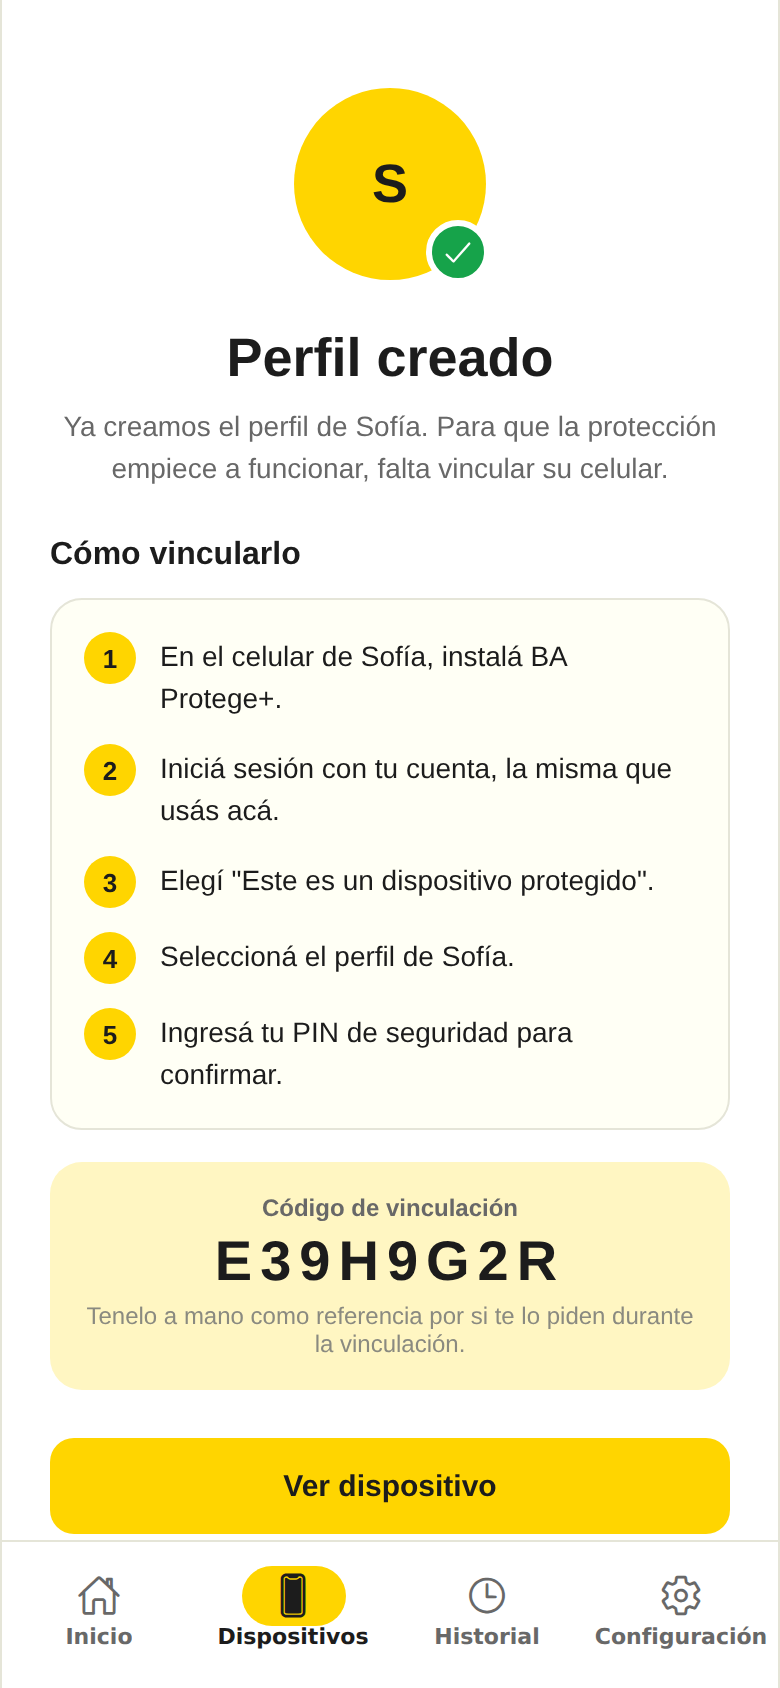
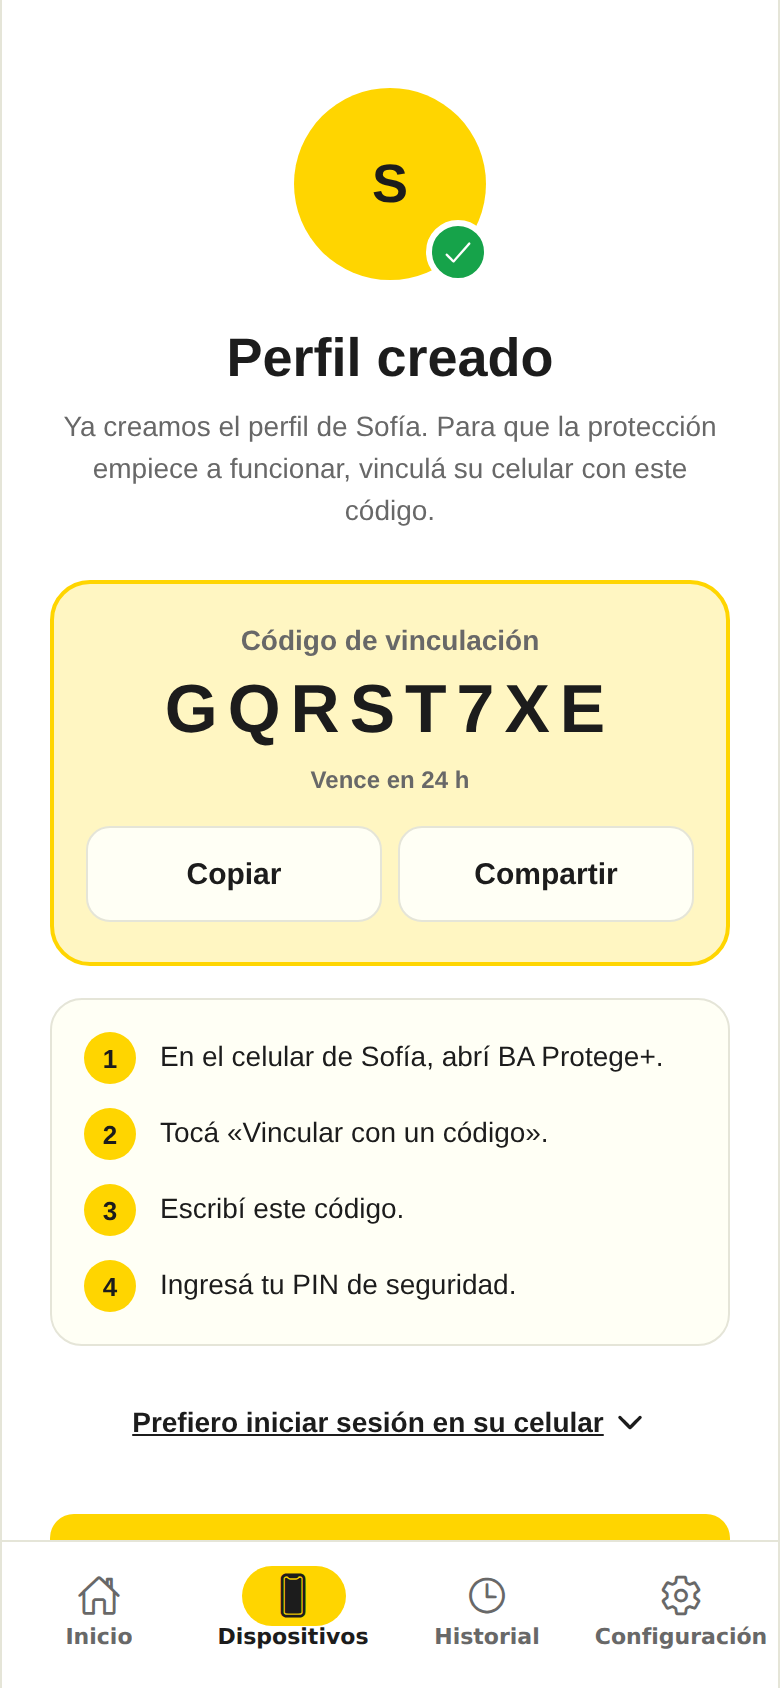
docs: README con la integración de las ramas, capturas nuevas y prueba de Android por código
- README: los dos caminos de vinculación (código y sesión del adulto), el
  catálogo de eventos del Hito 3, la API del celular, la seguridad de la
  vinculación y qué se tomó de cada rama del equipo y por qué.
- Capturas 24 a 30 (vincular con código, sugerir un sitio) y de Android
  (vincular con código, VPN activa, pausar con PIN).
- docs/e2e/android_codigo_e2e.py: vincula el APK con código y PIN, activa
  la VPN, comprueba que bplay.bet.ar no resuelve y google.com sí, y que
  pausar abre el pedido de PIN sin desactivar la protección.

diff --git a/docs/e2e/android_codigo_e2e.py b/docs/e2e/android_codigo_e2e.py
@@ -1,0 +1,165 @@
+"""Prueba del APK en el emulador con la vinculación por código (sin la cuenta del adulto).
+
+El adulto crea el perfil por API y recibe el código; en el celular se toca
+«Vincular con un código», se escribe el código y el PIN, se activa la VPN y se
+verifica el bloqueo por DNS. Reutiliza los helpers de android_e2e.py.
+Requiere el emulador ya iniciado.
+"""
+import os
+import re
+import sys
+import time
+
+sys.argv = sys.argv[:1]
+HERE = os.path.dirname(os.path.abspath(__file__))
+sys.path.insert(0, HERE)
+
+# Importar android_e2e ejecutaría su recorrido: se cargan solo las definiciones.
+source = open(os.path.join(HERE, "android_e2e.py"), encoding="utf-8").read()
+helpers = source.split("\nrun(", 1)[0]
+exec(compile(helpers, "android_e2e_helpers", "exec"))  # noqa: S102
+
+PREFIX = "c"
+state = {}
+
+
+def shot_c(name):
+    shot(f"{PREFIX}-{name}")  # noqa: F821
+
+
+def prepare():
+    reg = api("/api/auth/register", {"name": "Laura Gómez", "email": email, "password": password})  # noqa: F821
+    token = reg["token"]
+    api("/api/auth/pin", {"pin": pin}, token, method="PATCH")  # noqa: F821
+    created = api("/api/devices/link", {"deviceName": "Sofía", "fechaNacimiento": "2013-08-12"}, token)  # noqa: F821
+    state["code"] = created["linkCode"]
+    state["token"] = token
+    print(f"  código: {state['code']}")
+
+
+def dismiss_anr():
+    """En el emulador por software, Android a veces avisa que la interfaz no responde."""
+    hit = find(r"^(Wait|Esperar)$")  # noqa: F821
+    if hit:
+        adb("shell", "input", "tap", str(hit[0]), str(hit[1]))  # noqa: F821
+        time.sleep(2)
+    return hit
+
+
+def open_app():
+    adb("install", "-r", APK, timeout=300)  # noqa: F821
+    adb("shell", "pm", "clear", PKG, check=False)  # noqa: F821
+    end = time.time() + 180
+    while time.time() < end:
+        dismiss_anr()
+        adb("shell", "monkey", "-p", PKG, "-c", "android.intent.category.LAUNCHER", "1", check=False)  # noqa: F821
+        try:
+            wait_for(r"Comenzar|Bienvenid|Vincular con un código", 30)  # noqa: F821
+            break
+        except TimeoutError:
+            continue
+    dismiss_anr()
+    wait_for(r"Comenzar|Bienvenid|Vincular con un código", 30)  # noqa: F821
+    shot_c("bienvenida")
+
+
+PROTECTED_HOME = r"^Protección en este celular$|^Este celular está protegido$|^Protección pausada"
+
+
+def text_fields():
+    """Centros de los EditText en pantalla, de arriba hacia abajo."""
+    fields = []
+    for node in screen().iter("node"):  # noqa: F821
+        if "EditText" in (node.get("class") or ""):
+            x1, y1, x2, y2 = map(int, re.findall(r"\d+", node.get("bounds")))
+            fields.append(((x1 + x2) // 2, (y1 + y2) // 2))
+    return sorted(fields, key=lambda p: p[1])
+
+
+def link_with_code():
+    tap(r"Vincular con un código")  # noqa: F821
+    wait_for(r"Vinculá este celular", 60)  # noqa: F821
+    fields = text_fields()
+    assert fields, "no encontré el campo del código"
+    adb("shell", "input", "tap", str(fields[0][0]), str(fields[0][1]))  # noqa: F821
+    type_text(state["code"])  # noqa: F821
+    # El PinInput es un TextInput transparente (fuera del árbol de accesibilidad)
+    # encima de las cajas: se toca la zona de las cajas, debajo de su etiqueta.
+    label = None
+    for node in screen().iter("node"):  # noqa: F821
+        if re.search(r"PIN de seguridad", node.get("text") or "", re.I):
+            label = list(map(int, re.findall(r"\d+", node.get("bounds"))))
+    assert label, "no encontré la etiqueta del PIN"
+    adb("shell", "input", "tap", "540", str(label[3] + 110))  # noqa: F821
+    time.sleep(0.8)
+    type_text(pin)  # noqa: F821
+    adb("shell", "input", "keyevent", "4")  # noqa: F821
+    time.sleep(1)
+    shot_c("vincular-con-codigo")
+    tap(r"^Vincular$")  # noqa: F821
+    wait_for(PROTECTED_HOME, 60)  # noqa: F821
+    time.sleep(1.5)
+    shot_c("protegido-recien-vinculado")
+
+
+def vpn_on():
+    switch = None
+    for node in screen().iter("node"):  # noqa: F821
+        if "Switch" in (node.get("class") or "") or node.get("checkable") == "true":
+            x1, y1, x2, y2 = map(int, re.findall(r"\d+", node.get("bounds")))
+            switch = ((x1 + x2) // 2, (y1 + y2) // 2)
+    assert switch, "no encontré el interruptor de la VPN"
+    adb("shell", "input", "tap", str(switch[0]), str(switch[1]))  # noqa: F821
+    time.sleep(1.5)
+    for _ in range(15):
+        consent = find(r"^(OK|Aceptar|Allow|Permitir)$")  # noqa: F821
+        if consent:
+            adb("shell", "input", "tap", str(consent[0]), str(consent[1]))  # noqa: F821
+            break
+        time.sleep(1)
+    wait_for(r"Este celular está protegido", 30)  # noqa: F821
+    time.sleep(2.5)
+    shot_c("protegido-vpn-activa")
+    blocked = not resolves("bplay.bet.ar")  # noqa: F821
+    allowed = resolves("google.com")  # noqa: F821
+    print(f"  bplay.bet.ar bloqueado: {blocked} · google.com resuelve: {allowed}")
+    assert blocked and allowed, "la VPN no filtra como se espera"
+
+
+def visible_texts():
+    return {n.get("text") for n in screen().iter("node") if n.get("text")}  # noqa: F821
+
+
+def pause_needs_pin():
+    """Apagar el interruptor tiene que abrir un pedido de PIN, no pausar directamente."""
+    before = visible_texts()
+    switch = None
+    for node in screen().iter("node"):  # noqa: F821
+        if "Switch" in (node.get("class") or "") or node.get("checkable") == "true":
+            x1, y1, x2, y2 = map(int, re.findall(r"\d+", node.get("bounds")))
+            switch = ((x1 + x2) // 2, (y1 + y2) // 2)
+    assert switch, "no encontré el interruptor"
+    adb("shell", "input", "tap", str(switch[0]), str(switch[1]))  # noqa: F821
+    new = set()
+    for _ in range(12):
+        time.sleep(1)
+        new = visible_texts() - before
+        if any(re.search(r"PIN|Cancelar|Confirmar|Pausar", t, re.I) for t in new):
+            break
+    assert any(re.search(r"PIN", t, re.I) for t in new), f"no apareció un pedido de PIN; textos nuevos: {sorted(new)}"
+    print(f"  diálogo: {sorted(new)[:6]}")
+    shot_c("pausar-con-pin")
+    hit = find(r"^Cancelar$|^Volver$")  # noqa: F821
+    if hit:
+        adb("shell", "input", "tap", str(hit[0]), str(hit[1]))  # noqa: F821
+        time.sleep(1.5)
+    assert not resolves("bplay.bet.ar"), "sin el PIN la protección no debería pausarse"  # noqa: F821
+    print("  sin PIN la protección sigue activa")
+
+
+run("perfil y código por API", prepare)  # noqa: F821
+run("instalar y abrir el APK", open_app)  # noqa: F821
+run("vincular con el código y el PIN", link_with_code)  # noqa: F821
+run("activar la VPN y bloquear por DNS", vpn_on)  # noqa: F821
+run("pausar pide el PIN del adulto", pause_needs_pin)  # noqa: F821
+print("OK: vinculación por código verificada en el emulador")

diff --git a/README.md b/README.md
@@ -15,32 +15,36 @@ Aplicación para que madres, padres y personas adultas a cargo **bloqueen los si
 La misma app tiene dos modos. Cada celular elige el suyo la primera vez que se usa:
 
 - **Modo adulto responsable.** En tu celular o en la web app creás tu cuenta (con correo y contraseña o con **Continuar con Google**) y un PIN de 4 dígitos, cargás el perfil de cada hijo o hija y recibís las alertas y el historial.
-- **Modo dispositivo protegido.** En el celular del menor iniciás sesión con **tu** cuenta, elegís su perfil y confirmás con tu PIN. A partir de ahí, una VPN local de Android filtra por DNS los dominios del listado. La navegación no pasa por ningún servidor nuestro.
+- **Modo dispositivo protegido.** Se vincula el celular del menor de una de dos formas:
+  - **Con un código (recomendado).** Al cargar el perfil, la app le muestra al adulto un código de 8 caracteres que vence en 24 horas. En el celular del menor se toca **«Vincular con un código»**, se escribe el código y el PIN del adulto, y listo. La cuenta del adulto no queda abierta en ese celular: el celular recibe una credencial propia, revocable, que solo sirve para su estado, la lista de bloqueo y sus eventos.
+  - **Iniciando sesión con la cuenta del adulto.** Se elige el perfil del menor y se confirma con el PIN.
+
+  A partir de ahí, una VPN local de Android filtra por DNS los dominios del listado. La navegación no pasa por ningún servidor nuestro. Para pausar la protección o desvincular el celular siempre hace falta el PIN del adulto.
 
 ```mermaid
 flowchart TD
-    A[Bienvenida y onboarding] --> B{¿Tiene cuenta?}
-    B -- No --> C[Crear cuenta]
-    B -- Sí --> D[Iniciar sesión]
-    C --> E[Selección de modo]
-    D --> E
-    E -- Adulto responsable --> F[Crear PIN de seguridad]
+    A[Bienvenida y onboarding] --> B{¿Qué celular es?}
+    B -- El del adulto --> C[Crear cuenta o iniciar sesión]
+    C --> F[Crear PIN de seguridad]
     F --> G[Inicio: dispositivos, alertas e historial]
-    G --> H[Agregar dispositivo: nombre y fecha de nacimiento]
-    H --> I[Perfil creado: pasos y código de vinculación]
-    E -- Dispositivo protegido --> J[Elegir el perfil del menor]
-    J --> K[Confirmar con el PIN del adulto]
-    K -- PIN incorrecto --> K
-    K -- PIN correcto --> L[Celular protegido: VPN local activa]
+    G --> H[Agregar perfil: nombre y fecha de nacimiento]
+    H --> I[Código de vinculación: copiar o compartir]
+    B -- El del menor --> V[Vincular con un código]
+    I -. el adulto le pasa el código .-> V
+    V --> K[Código + PIN del adulto]
+    K -- incorrecto: 5 intentos como máximo --> K
+    K -- correcto --> L[Celular protegido: VPN local activa]
+    C -. alternativa: modo dispositivo protegido .-> J[Elegir perfil y confirmar con el PIN]
+    J --> L
     L -- Intento de entrar a un sitio del listado --> M[Pantalla de sitio bloqueado]
-    M -. evento ACCESS_ATTEMPT .-> N[(API)]
+    M -. evento SITE_BLOCKED .-> N[(API)]
     L -. PIN incorrecto al salir: BYPASS_ATTEMPT .-> N
-    N -. alerta .-> G
+    N -. alerta y push .-> G
 ```
 
 ### Qué se registra y qué no
 
-- **Se registra:** los intentos de entrar a un sitio bloqueado, los cambios en la protección y los PIN incorrectos al intentar salir del modo protegido.
+- **Se registra:** los eventos del catálogo del Hito 3: intento de entrar a un sitio bloqueado (`SITE_BLOCKED`), intento de desinstalar (`UNINSTALL_ATTEMPT`), intento de evasión o PIN incorrecto al salir (`BYPASS_ATTEMPT`), intento de instalar una app (`APP_INSTALL_ATTEMPT`) y cambios en la protección (`PROTECTION_MODIFIED`). Los de seguridad generan una alerta para el adulto, y los críticos además una notificación push (hoy simulada: falta conectar Firebase o Expo Push). `ACCESS_ATTEMPT`, el nombre anterior de `SITE_BLOCKED`, se sigue aceptando por los APK ya instalados.
 - **No se registra:** el resto de la navegación, los mensajes, las fotos ni la ubicación. El detalle está en [Data Analytics/plan-de-datos-y-telemetria.md](Data%20Analytics/plan-de-datos-y-telemetria.md).
 
 ## Pantallas
@@ -67,19 +71,35 @@ Capturas de la web app, tomadas con el recorrido automático de [`docs/e2e`](doc
 |---|---|---|---|
 | <img src="docs/screenshots/18-home-con-dispositivo.png" width="190"> | <img src="docs/screenshots/19-alertas.png" width="190"> | <img src="docs/screenshots/20-detalle-alerta.png" width="190"> | <img src="docs/screenshots/21-historial.png" width="190"> |
 
-| Configuración | Ayuda |
-|---|---|
-| <img src="docs/screenshots/22-configuracion.png" width="190"> | <img src="docs/screenshots/23-ayuda.png" width="190"> |
+| Configuración | Ayuda | Sugerir un sitio |
+|---|---|---|
+| <img src="docs/screenshots/22-configuracion.png" width="190"> | <img src="docs/screenshots/23-ayuda.png" width="190"> | <img src="docs/screenshots/30-sugerir-sitio.png" width="190"> |
+
+#### Vincular con un código
+
+| Código para el adulto | Vincular este celular | Código o PIN incorrecto |
+|---|---|---|
+| <img src="docs/screenshots/24-codigo-de-vinculacion.png" width="190"> | <img src="docs/screenshots/25-vincular-con-codigo.png" width="190"> | <img src="docs/screenshots/26-vincular-con-codigo-error.png" width="190"> |
+
+| Celular protegido | Sitio bloqueado | Alerta para el adulto |
+|---|---|---|
+| <img src="docs/screenshots/27-home-protegido-con-codigo.png" width="190"> | <img src="docs/screenshots/28-sitio-bloqueado-con-codigo.png" width="190"> | <img src="docs/screenshots/29-alertas-segundo-celular.png" width="190"> |
+
+En la web, la pantalla «Vinculá este celular» avisa que el navegador no bloquea sitios. Si se abre desde el navegador de un Android, ofrece abrir la app o descargarla, para que el código no se gaste en un navegador.
 
 ### En Android (APK, emulador con Android 15)
 
-| Vinculación con PIN | Permiso de VPN del sistema | Celular protegido |
+| Vincular con un código | Celular protegido (VPN activa) | Pausar pide el PIN |
+|---|---|---|
+| <img src="docs/screenshots/android/02-c-vincular-con-codigo.png" width="190"> | <img src="docs/screenshots/android/04-c-protegido-vpn-activa.png" width="190"> | <img src="docs/screenshots/android/05-c-pausar-con-pin.png" width="190"> |
+
+| Vinculación iniciando sesión | Permiso de VPN del sistema | Celular protegido |
 |---|---|---|
 | <img src="docs/screenshots/android/04-vinculacion-pin.png" width="190"> | <img src="docs/screenshots/android/07-permiso-vpn.png" width="190"> | <img src="docs/screenshots/android/08-protegido-vpn-activa.png" width="190"> |
 
-Con la VPN activa, `bplay.bet.ar` (listado de LOTBA) deja de resolver en todo el celular y `google.com` sigue funcionando. Lo verifica [`docs/e2e/android_e2e.py`](docs/e2e/android_e2e.py) con adb sobre el emulador.
+Con la VPN activa, `bplay.bet.ar` (listado de LOTBA) deja de resolver en todo el celular y `google.com` sigue funcionando. Lo verifican con adb sobre el emulador [`docs/e2e/android_e2e.py`](docs/e2e/android_e2e.py) (vinculación iniciando sesión) y [`docs/e2e/android_codigo_e2e.py`](docs/e2e/android_codigo_e2e.py) (vinculación por código, VPN y pausa con PIN).
 
-El recorrido automático de la web cubre el flujo completo con dos navegadores, uno para el adulto y otro para el celular del menor:
+El recorrido automático de la web cubre el flujo completo con tres navegadores: el del adulto, un celular vinculado iniciando sesión y otro vinculado con el código:
 
 ```bash
 cd docs/e2e && npm i playwright && npx playwright install chromium
@@ -100,12 +120,27 @@ E13-Control-Parental/
 ├── backend/               API Express + TypeScript (Vercel serverless)
 │   └── src/config/lotbaDomains.ts  Listado oficial de LOTBA (generado)
 ├── Data Analytics/        Plan de datos (#7) y limpieza de la lista de LOTBA (#9)
-└── docs/                  Capturas y recorrido automático
+├── Testing QA/            Estrategia, criterios, riesgos, trazabilidad y evidencias de QA (Hito 1)
+└── docs/                  Capturas y recorridos automáticos (web y Android)
 ```
 
-- **Frontend:** React Native con Expo Router. Las mismas pantallas se compilan a APK y a web (`expo export -p web`, servida en `/app`). Los colores, la tipografía y los radios salen del UI Kit del Figma (`frontend/src/theme.ts`).
-- **Backend:** Express con JWT y bcrypt para la contraseña y el PIN. En Vercel corre como función serverless. Como cada pedido puede caer en una instancia distinta, el estado se guarda en un blob privado de Vercel Blob (`BLOB_READ_WRITE_TOKEN`), o en Upstash Redis si están `KV_REST_API_URL` y `KV_REST_API_TOKEN`. En desarrollo usa la memoria. Ver `backend/src/config/persistence.ts`.
-- **Bloqueo:** el celular protegido baja el listado (`GET /api/blocklist`) y se lo pasa a la VPN local, que responde NXDOMAIN a esos dominios y a sus subdominios.
+- **Frontend:** React Native con Expo Router. Las mismas pantallas se compilan a APK y a web (`expo export -p web`, servida en `/app`). Los colores, la tipografía y los radios salen del UI Kit del Figma (`frontend/src/theme.ts`). La sesión del adulto vive en AsyncStorage; la credencial del celular vinculado por código, en SecureStore (en la web, en localStorage).
+- **Backend:** Express con JWT y bcrypt para la contraseña y el PIN. En Vercel corre como función serverless. Como cada pedido puede caer en una instancia distinta, el estado se guarda en un blob privado de Vercel Blob (`BLOB_READ_WRITE_TOKEN`), o en Upstash Redis si están `KV_REST_API_URL` y `KV_REST_API_TOKEN`. La escritura es condicional (ETag de Blob o versión en Redis): si otra instancia guardó en el medio, el pedido responde 503 en lugar de pisar ese cambio. En desarrollo usa la memoria. Ver `backend/src/config/persistence.ts`.
+- **Bloqueo:** el celular protegido baja el listado (`GET /api/blocklist`, o `GET /api/devices/me/blocklist` si se vinculó con código, que suma los sitios personalizados del adulto) y se lo pasa a la VPN local, que responde NXDOMAIN a esos dominios y a sus subdominios.
+
+### API del celular vinculado con código
+
+| Endpoint | Autenticación | Para qué |
+|---|---|---|
+| `POST /api/devices/claim` | Pública (código + PIN) | Vincula y devuelve la credencial del celular, una sola vez |
+| `GET /api/devices/me` | `Authorization: Device …` | Estado del celular (también sirve como señal de vida) |
+| `GET /api/devices/me/blocklist` | `Device` | Listado oficial más los sitios personalizados del adulto |
+| `POST /api/devices/me/events` | `Device` | Registra un evento del catálogo |
+| `POST /api/devices/me/verify-pin` · `PATCH /api/devices/me/status` · `POST /api/devices/me/unlink` | `Device` + PIN del adulto | Verificar el PIN, pausar o reanudar, desvincular |
+| `POST /api/devices/:id/link-code` | JWT del adulto | Código nuevo; si el celular estaba vinculado, pide el PIN y revoca la credencial |
+| `POST /api/blocklist/suggestions` · `GET` (admin) | JWT del adulto · `ADMIN_SECRET` | Sugerir un sitio y revisar las sugerencias para enviarlas a LOTBA |
+
+**Seguridad de la vinculación.** El código se genera con `crypto.randomInt` (32⁸ combinaciones), vence a las 24 horas (`LINK_CODE_TTL_MINUTES`) y se invalida después de 5 intentos fallidos. Además, hay límites por PIN del adulto (5 intentos y 15 minutos de bloqueo) y por IP (10 intentos cada 15 minutos). El intento se cuenta antes de comparar, para que los pedidos en paralelo no salteen el límite. La credencial del celular se guarda solo como hash, se compara en tiempo constante y no sirve en las rutas del adulto, ni el JWT del adulto en las del celular. `trust proxy` se activa solo en Vercel o con `TRUST_PROXY`. En producción, el backend no arranca sin `JWT_SECRET`.
 
 ## Desarrollo local
 
@@ -166,9 +201,12 @@ Para crear el cliente: en Google Cloud Console configurá la pantalla de consent
 ```bash
 cd frontend
 EXPO_PUBLIC_API_URL=https://baprotege-api.vercel.app npx expo prebuild -p android --clean
-cd android && ./gradlew assembleRelease -PreactNativeArchitectures=arm64-v8a,armeabi-v7a
+cd android && ./gradlew assembleRelease -PreactNativeArchitectures=arm64-v8a,armeabi-v7a \
+  -Dorg.gradle.jvmargs="-Xmx3g" -Dorg.gradle.workers.max=2
 # app/build/outputs/apk/release/app-release.apk
 ```
+
+Con 8 GB de RAM, no compiles el APK mientras corre otro proceso pesado (otro build o un render), porque WSL se puede quedar sin memoria. `expo-secure-store` y `expo-clipboard` son módulos nativos: después de agregarlos o actualizarlos hay que volver a compilar el APK.
 
 El APK de prueba se firma con la clave de debug. Para publicarlo en Google Play hace falta una clave de release propia (o `eas build`).
 
@@ -179,6 +217,20 @@ cd frontend
 EXPO_PUBLIC_API_URL=https://baprotege-api.vercel.app npm run build:web
 # dist/ = landing en "/" + web app en "/app"; vercel.json define los rewrites
 ```
+
+## Integración de las ramas del equipo
+
+Esta rama (`feat/figma-landing-webapp`, PR #48) incluye lo de todas las ramas del repo. Al 16/11/2026, solo tres traían cambios nuevos:
+
+| Rama | Qué se tomó | Cómo |
+|---|---|---|
+| `main` | Documentación de QA del Hito 1 (`Testing QA/`) | Merge. `frontend/src/services/auth.ts` quedó con la versión de esta rama, que ya incluía lo del Hito 1. |
+| `Hito3-FiltradoDNS-VPN-Eventos-Alertas-Auditoria` | Servicio de push, `POST /api/devices/push-token`, catálogo de eventos, historial ordenado y filtrable por categoría, tests | Merge con ajustes: se sigue aceptando `PROTECTION_MODIFIED` (lo envía la app) y los tipos anteriores siguen generando alerta. El test de dominio personalizado ahora consulta con el token de la cuenta, porque los sitios personalizados de un adulto no se bloquean para todos. |
+| `13-front-vinculación-entre-dispositivos-y-estado-de-protección` (PR #30) | Vincular el celular sin la cuenta del adulto, «Sugerir un sitio», onboarding con scroll y validación del nombre | Reimplementado, sin merge. La rama confirmaba la vinculación con un endpoint público y un PIN de 4 dígitos, sin límite de intentos. Además, sus pantallas eran anteriores al diseño del Figma y tenía commiteado un JWT firmado con la clave por defecto. |
+
+Las demás ramas (`development`, `12-front-navegación-onboarding`, `Hito-1…`, `Hito-2…`, `backend-semana1`, `feat/vpn-local-android`) ya estaban incluidas.
+
+**Pruebas:** `backend` tiene 246 tests (`npm test`). Se suman el recorrido web con Playwright y los dos recorridos de Android con adb.
 
 ## Datos
 
